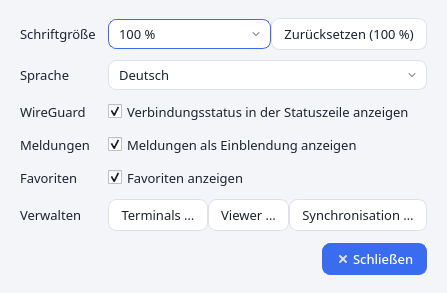
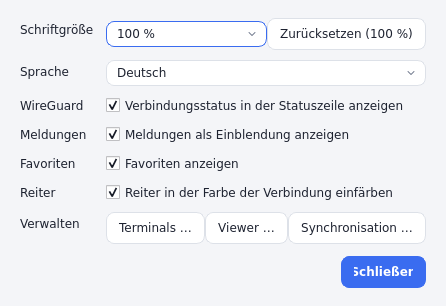
Doku und Screenshots für Reiterfarben
Claude-Session: https://claude.ai/code/session_01LZ7SSLfgmPXxPFthaSNjcz

diff --git a/tools/screenshots.py b/tools/screenshots.py
@@ -33,7 +33,7 @@ from sesam.gui import style, theme  # noqa: E402
 from sesam.models import Config, Connection, Snippet, Terminal  # noqa: E402
 
 MODES = (("light", "hell"), ("dark", "dunkel"))
-PARTS = ("hauptfenster", "verbindung", "dateibrowser", "snippets", "synckonflikt", "kacheln", "einstellungen")
+PARTS = ("hauptfenster", "verbindung", "dateibrowser", "snippets", "synckonflikt", "kacheln", "reiter", "einstellungen")
 
 
 def demo_config() -> tuple[Config, dict[str, Connection]]:
@@ -168,6 +168,33 @@ def terminal_tiles(cfg, conns, tmp: Path, out: Path, label: str) -> None:
     _close_terminal_window(w)
 
 
+def terminal_tabs(cfg, conns, tmp: Path, out: Path, label: str) -> None:
+    """Mehrere Sitzungen als einzelne Reiter, eingefärbt in der Farbe ihrer Verbindung (Einstellung „Reiter einfärben“)."""
+    from sesam.gui.main_window import MainWindow
+    from sesam.gui.terminal_view import TerminalView
+
+    w = MainWindow(cfg, tmp / "config.json")
+    w.resize(1180, 520)
+    w.show()
+    QApplication.processEvents()
+    keys = ("web1", "web2", "db", "docker", "pi")
+    with mock.patch.object(TerminalView, "start", lambda self, args, env: None):
+        views = [w._open_embedded(["true"], conns[key].name, {}, color=conns[key].color) for key in keys]
+    w.set_tab_colors(True)
+    w.tabs.setCurrentIndex(2)
+    for _ in range(5):
+        QApplication.processEvents()
+    for view, (_name, host, commands) in zip(views, DEMO_SESSIONS):
+        prompt = f"\x1b[1;32m{host}\x1b[0m:\x1b[1;34m~\x1b[0m$ "
+        text = "".join(prompt + command + "\r\n" + "".join(line + "\r\n" for line in output) for command, output in commands)
+        view._feed((text + prompt).encode())
+    views[2].setFocus()
+    for _ in range(5):
+        QApplication.processEvents()
+    grab(w, out / f"terminal-reiter-{label}.png")
+    _close_terminal_window(w)
+
+
 def terminal_broadcast(cfg, conns, tmp: Path, out: Path) -> None:
     w, _views = _terminal_window(cfg, tmp)
     w._toggle_broadcast(w._terminal_tabs()[0])
@@ -182,7 +209,7 @@ def settings_dialog(cfg, conns, out: Path) -> None:
 
     nothing = lambda *_: None  # noqa: E731
     d = SettingsDialog(100, "de", nothing, nothing, wireguard=True, set_wireguard=nothing, toasts=True, set_toasts=nothing,
-                       favorites=True, set_favorites=nothing, open_terminals=nothing, open_viewers=nothing, open_sync=nothing)
+                       favorites=True, set_favorites=nothing, tab_colors=True, set_tab_colors=nothing, open_terminals=nothing, open_viewers=nothing, open_sync=nothing)
     d.adjustSize()
     grab(d, out / "einstellungen.png")
     d.close()
@@ -298,6 +325,8 @@ def main() -> int:
                 terminal_tiles(cfg, conns, tmp, out, label)
                 if mode == "light":
                     terminal_broadcast(cfg, conns, tmp, out)
+            if "reiter" in parts:
+                terminal_tabs(cfg, conns, tmp, out, label)
             if "snippets" in parts:
                 snippets_dialog(cfg, conns, out, label)
             if "synckonflikt" in parts:

diff --git a/docs/terminals-snippets.md b/docs/terminals-snippets.md
@@ -27,7 +27,7 @@ findest du ebenfalls unter *Neu ▾*.
 Der Eintrag *Integriert (in Sesam)* öffnet die Verbindung als Reiter im Hauptfenster, ohne ein externes Terminal-Programm.
 Er steht neben den anderen Terminals zur Wahl (als Standard oder pro Verbindung, auch über „Verbinden mit …“) und lässt sich nicht löschen.
 
-- **Reiter:** Die Verbindungsliste bleibt links immer sichtbar (die Breite lässt sich am Trenner ziehen und wird gemerkt), jede Sitzung bekommt rechts daneben einen eigenen Reiter. Solange keine Sitzung offen ist, zeigt die rechte Seite die zehn zuletzt verwendeten Verbindungen; Enter oder Doppelklick öffnet sie. Sobald `ssh` endet, schließt sich der Reiter; das Schließen einer laufenden Sitzung fragt nach.
+- **Reiter:** Die Verbindungsliste bleibt links immer sichtbar (die Breite lässt sich am Trenner ziehen und wird gemerkt), jede Sitzung bekommt rechts daneben einen eigenen Reiter. Solange keine Sitzung offen ist, zeigt die rechte Seite die zehn zuletzt verwendeten Verbindungen; Enter oder Doppelklick öffnet sie. Sobald `ssh` endet, schließt sich der Reiter; das Schließen einer laufenden Sitzung fragt nach. Die Reiter lassen sich mit der Maus ziehen und so **umsortieren** (die Reihenfolge gilt für die laufende Sitzung; neue Reiter erscheinen hinten). Unter *Einstellungen › Reiter* kannst du die Reiter **in der Farbe der Verbindung einfärben**: Der Reiter bekommt dann eine leichte Tönung und einen Streifen am unteren Rand in der Farbe, die du in der Verbindung gewählt hast (der aktive Reiter ist etwas kräftiger). Verbindungen ohne Farbe und lokale Terminals bleiben unverändert; die Option ist standardmäßig aus und wird nur lokal gespeichert. Eine geänderte Verbindungsfarbe gilt für Reiter, die danach geöffnet werden.
 - **Kacheln:** Ein Reiter kann mehrere Sitzungen nebeneinander oder untereinander zeigen. **Strg+Umschalt+O** teilt nach rechts, **Strg+Umschalt+E** nach unten (auch Rechtsklick im Terminal oder auf den Reiter); die neue Kachel startet dieselbe Verbindung noch einmal. Im Kontextmenü einer Verbindung öffnet **„Neben/Unter dem aktuellen Terminal öffnen“** sie als Kachel im zuletzt benutzten Terminal-Reiter. **Alt+Pfeiltasten** wechseln den Fokus zwischen den Kacheln (die aktive hat einen farbigen Rand), **Strg+Umschalt+Enter** zeigt die aktive Kachel allein im Reiter und wieder zurück, **Strg+Umschalt+W** schließt sie. Die Trenner lassen sich mit der Maus ziehen. Mit dem **Griff** (sechs Punkte) oben rechts in einer Kachel lässt sie sich **per Drag & Drop verschieben**: Am linken, rechten, oberen oder unteren Rand der Zielkachel wird sie dort eingefügt (die Zielhälfte ist markiert), in der Mitte tauschen beide den Platz. Zieht man auf eine Kachel in einem anderen Reiter (beim Darüberhalten über den Reiter wechselt er), wechselt die Kachel in diesen Reiter; wird der alte Reiter dadurch leer, verschwindet er. Die Sitzungen laufen dabei weiter. Endet eine Sitzung, verschwindet nur ihre Kachel; mit der letzten schließt der Reiter. Der Reitertitel zeigt die aktive Kachel, bei mehreren mit „(+n)“. Hinweis: Alt+Pfeil geht dabei nicht an das Programm im Terminal.
 - **Lokales Terminal:** Der Knopf **Lokales Terminal** (Strg+Umschalt+T) öffnet eine Shell auf diesem Rechner im integrierten Terminal – unter Linux deine `$SHELL` im Home-Verzeichnis, unter Windows PowerShell (sonst die Eingabeaufforderung). Im Terminal öffnet Strg+Umschalt+T die lokale Shell als Kachel rechts neben der aktuellen Sitzung. Es braucht keine Verbindung und ist unabhängig vom gewählten Terminal-Profil.
 - **Alle Sitzungen kacheln:** **Strg+Umschalt+G** (oder die Schaltfläche **Kacheln** rechts neben den Reitern, das Reiter- und das Terminal-Menü) holt alle offenen Sitzungen in den aktuellen Reiter und ordnet sie als Raster an (2 → nebeneinander, 3–4 → 2 × 2, 5–6 → 3 × 2 …). **„In einzelne Reiter auflösen“** macht daraus wieder je einen Reiter pro Sitzung.

diff --git a/docs/en/terminals-snippets.md b/docs/en/terminals-snippets.md
@@ -27,7 +27,7 @@ are also under *New ▾*.
 The *Integrated (in Sesam)* entry opens the connection as a tab in the main window, without an external terminal program.
 It is available alongside the other terminals (as the default or per connection, also via “Connect with …”) and cannot be deleted.
 
-- **Tabs:** The connection list always stays visible on the left (drag the divider to resize it; the width is remembered), and each session gets its own tab next to it. While no session is open, the right side shows the ten most recently used connections; Enter or a double-click opens one. The tab closes as soon as `ssh` ends; closing a running session asks first.
+- **Tabs:** The connection list always stays visible on the left (drag the divider to resize it; the width is remembered), and each session gets its own tab next to it. While no session is open, the right side shows the ten most recently used connections; Enter or a double-click opens one. The tab closes as soon as `ssh` ends; closing a running session asks first. Tabs can be dragged with the mouse to **reorder** them (the order applies to the running session; new tabs appear at the end). Under *Settings › Tabs* you can **tint tabs in the connection's color**: a tab then gets a light tint and a stripe along its bottom edge in the color chosen in the connection (the active tab is slightly stronger). Connections without a color and local terminals stay unchanged; the option is off by default and stored locally only. A changed connection color applies to tabs opened afterwards.
 - **Tiles:** A tab can show several sessions side by side or one below the other. **Ctrl+Shift+O** splits to the right, **Ctrl+Shift+E** downwards (also right click in the terminal or on the tab); the new tile starts the same connection again. In a connection's context menu, **“Open next to/below the current terminal”** opens it as a tile in the most recently used terminal tab. **Alt+arrow keys** move the focus between tiles (the active one has a coloured border), **Ctrl+Shift+Enter** shows the active tile alone in the tab and back, **Ctrl+Shift+W** closes it. The dividers can be dragged with the mouse. The **grip** (six dots) at the top right of a tile lets you **move it by drag and drop**: dropped on the left, right, top or bottom edge of the target tile it is inserted there (the target half is highlighted), dropped in the middle the two tiles swap places. Dropping onto a tile in another tab (hovering over the tab switches to it) moves the tile into that tab; if the old tab becomes empty it disappears. The sessions keep running. When a session ends only its tile disappears; the tab closes with the last one. The tab title shows the active tile, with “(+n)” when there are several. Note: Alt+arrow is not passed on to the program in the terminal.
 - **Local terminal:** The **Local terminal** button (Ctrl+Shift+T) opens a shell on this computer in the integrated terminal – your `$SHELL` in the home directory on Linux, PowerShell (or the command prompt) on Windows. Inside a terminal, Ctrl+Shift+T opens the local shell as a tile to the right of the current session. It needs no connection and does not depend on the selected terminal profile.
 - **Tile all sessions:** **Ctrl+Shift+G** (or the **Tiles** button next to the tabs, the tab menu and the terminal menu) pulls all open sessions into the current tab and arranges them as a grid (2 → side by side, 3–4 → 2 × 2, 5–6 → 3 × 2 …). **“Split into separate tabs”** turns that back into one tab per session.

diff --git a/README.md b/README.md
@@ -35,7 +35,7 @@ Häufige Verbindungen als Favoriten oben im Baum (werden mit synchronisiert); St
 Jede Verbindung öffnet sich im Terminal deiner Wahl (Windows Terminal, PowerShell, cmd, PuTTY, GNOME Terminal, eigene Programme) über frei konfigurierbare Befehlsvorlagen, auch pro Verbindung verschieden.
 
 ### Integriertes Terminal
-Verbindungen öffnen sich auf Wunsch direkt in einem Reiter von Sesam, ohne externes Terminal (Auswahl, Kopieren, Verlauf, Schriftgröße). Mehrere Sitzungen lassen sich als **Kacheln** nebeneinander oder untereinander zeigen (per Drag & Drop umsortierbar), auf Knopfdruck **alle Sitzungen als Raster**; optional geht die Eingabe an **alle Kacheln gleichzeitig** (ausdrücklich zuschaltbar, deutlich gekennzeichnet).
+Verbindungen öffnen sich auf Wunsch direkt in einem Reiter von Sesam, ohne externes Terminal (Auswahl, Kopieren, Verlauf, Schriftgröße). Die Reiter lassen sich per Drag & Drop umsortieren und auf Wunsch **in der Farbe der Verbindung einfärben**. Mehrere Sitzungen lassen sich als **Kacheln** nebeneinander oder untereinander zeigen (per Drag & Drop umsortierbar), auf Knopfdruck **alle Sitzungen als Raster**; optional geht die Eingabe an **alle Kacheln gleichzeitig** (ausdrücklich zuschaltbar, deutlich gekennzeichnet).
 
 ### Zwischenablage-Verlauf
 Im Terminal Kopiertes bleibt abrufbar und lässt sich in einem oder mehreren Terminals einfügen; der Verlauf wird verschlüsselt gespeichert und nie synchronisiert.
@@ -167,6 +167,10 @@ Der Befehl `sesam` liegt in `~/.local/bin` (bei manchen Distributionen muss der 
 | Integriertes Terminal mit Kacheln (hell) | Integriertes Terminal mit Kacheln (dunkel) |
 | ---------------------------------------- | ------------------------------------------ |
 | ![Kacheln (hell)](docs/screenshots/terminal-kacheln-hell.png) | ![Kacheln (dunkel)](docs/screenshots/terminal-kacheln-dunkel.png) |
+
+| Reiter in der Farbe der Verbindung (hell) | Reiter in der Farbe der Verbindung (dunkel) |
+| ----------------------------------------- | ------------------------------------------- |
+| ![Farbige Reiter (hell)](docs/screenshots/terminal-reiter-hell.png) | ![Farbige Reiter (dunkel)](docs/screenshots/terminal-reiter-dunkel.png) |
 
 | „Eingabe an alle Kacheln senden“ (roter Rand) | Einstellungen |
 | --------------------------------------------- | ------------- |

diff --git a/README.en.md b/README.en.md
@@ -35,7 +35,7 @@ Frequent connections as favorites at the top of the tree (synced too); Ctrl+K op
 Every connection opens in the terminal of your choice (Windows Terminal, PowerShell, cmd, PuTTY, GNOME Terminal, custom programs) through freely configurable command templates, also different per connection.
 
 ### Integrated terminal
-Connections can open right in a tab of Sesam, without an external terminal (selection, copy, history, font size). Several sessions can be shown as **tiles** side by side or one below the other (rearrangeable by drag and drop), and with one click **all sessions as a grid**; optionally your input goes to **all tiles at once** (switched on explicitly and clearly marked).
+Connections can open right in a tab of Sesam, without an external terminal (selection, copy, history, font size). Tabs can be reordered by drag and drop and, if you like, **tinted in the connection's color**. Several sessions can be shown as **tiles** side by side or one below the other (rearrangeable by drag and drop), and with one click **all sessions as a grid**; optionally your input goes to **all tiles at once** (switched on explicitly and clearly marked).
 
 ### Clipboard history
 Text copied in the terminal stays available and can be pasted into one or several terminals; the history is stored encrypted and never synced.
@@ -166,6 +166,10 @@ The screenshots show the German interface; the English interface looks the same 
 | Integrated terminal with tiles (light) | Integrated terminal with tiles (dark) |
 | --- | --- |
 | ![Tiles (light)](docs/screenshots/terminal-kacheln-hell.png) | ![Tiles (dark)](docs/screenshots/terminal-kacheln-dunkel.png) |
+
+| Tabs in the connection's color (light) | Tabs in the connection's color (dark) |
+| --- | --- |
+| ![Colored tabs (light)](docs/screenshots/terminal-reiter-hell.png) | ![Colored tabs (dark)](docs/screenshots/terminal-reiter-dunkel.png) |
 
 | “Send input to all tiles” (red border) | Settings |
 | --- | --- |

diff --git a/docs/verbindungen.md b/docs/verbindungen.md
@@ -51,6 +51,7 @@ Verbindungen lassen sich in verschachtelten Gruppen ordnen (Pfad mit „/“, z.
 
 - **Farbe:** Verbindungen und Gruppen können eine von acht Farben bekommen; sie färbt das Symbol im Baum (die Zeile selbst bleibt unverändert, auch im dunklen Design gut lesbar).
   Bei Verbindungen wählst du sie im Bearbeiten-Dialog (*Farbe*) oder per Rechtsklick → *Farbe*, bei Gruppen per Rechtsklick → *Farbe*. Eine Gruppenfarbe wandert beim Umbenennen und Verschieben mit.
+  Die Farbe einer Verbindung kann auch die Reiter des integrierten Terminals einfärben (*Einstellungen › Reiter*, standardmäßig aus; siehe [Terminals und Snippets](terminals-snippets.md)).
 - **Tags:** Eine Verbindung kann mehrere Tags tragen (*Tags* im Bearbeiten-Dialog, mit Komma trennen, z. B. `prod, kunde-a`). Der Dialog schlägt bereits vergebene Tags vor.
   Der Baum zeigt sie in der Spalte *Tags*, und das Suchfeld findet sie wie Namen, Hosts und Gruppen. Groß-/Kleinschreibung spielt keine Rolle.
 - Farben und Tags werden mit synchronisiert (Gruppenfarben in `groups.json`). Bei widersprüchlichen Änderungen derselben Gruppenfarbe gewinnt die lokale.

diff --git a/docs/en/verbindungen.md b/docs/en/verbindungen.md
@@ -51,6 +51,7 @@ Connections can be organized in nested groups (path with “/”, e.g. `Customer
 
 - **Color:** connections and groups can get one of eight colors; it tints the icon in the tree (the row itself stays unchanged and remains readable in the dark theme).
   For connections you pick it in the edit dialog (*Color*) or by right-click → *Color*, for groups by right-click → *Color*. A group color moves along when you rename or move the group.
+  A connection's color can also tint the tabs of the integrated terminal (*Settings › Tabs*, off by default; see [Terminals and snippets](terminals-snippets.md)).
 - **Tags:** a connection can carry several tags (*Tags* in the edit dialog, separated by commas, e.g. `prod, customer-a`). The dialog suggests tags that already exist.
   The tree shows them in the *Tags* column, and the search field finds them just like names, hosts and groups. Case does not matter.
 - Colors and tags are synchronized too (group colors in `groups.json`). If the same group color was changed in conflicting ways, the local one wins.
